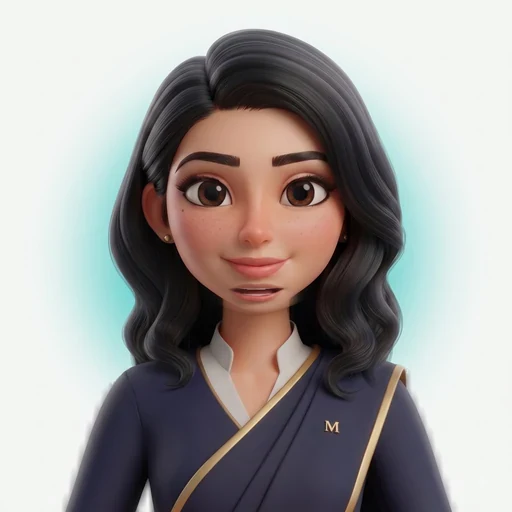
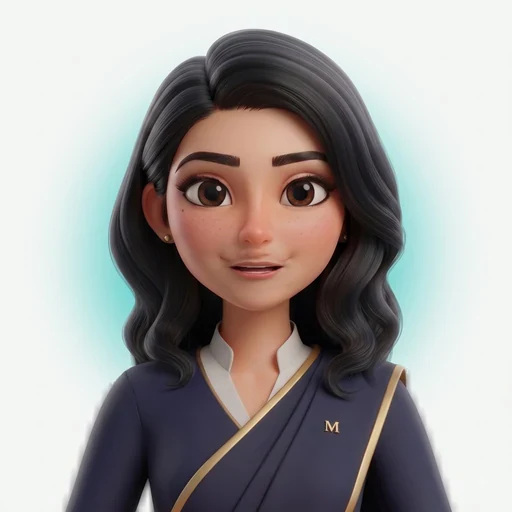
Fix two UI bugs: the panel on short windows, and the viseme anchor
Both are geometry. Claude, ElevenLabs, alignment, viseme timing, the
session and barge-in are untouched.

BUG 2, AND IT WAS IN THE ASSETS, NOT THE CSS. The visemes are whole
512x512 faces, not overlays, so no amount of CSS positioning was ever
going to move the mouth -- both images are absolute, inset 0, and align
exactly. The mouth really was drawn in the wrong place.

The anchor used when they were built was (260, 297), taken from the
centroid of everything that differs between avatar-idle and
avatar-answering. That diff includes the EYES, which differ between
those two renders, and the jaw shading, and it dragged the centroid 30px
down onto her chin. Her lip line is at y=267, measured from the reddest
band of the lower face and confirmed by drawing both lines on the
render: 297 lands on the chin, 267 runs through the lips.

30px at a 512 source is 15px at the 250px the avatar is now drawn at,
which is why enlarging the avatar is what made it visible -- at 44px it
was 2.6px and looked like nothing.

All ten regenerated around (258, 267), and the per-viseme dy nudges are
gone: they existed to drag apertures back onto a lip line that was in
the wrong place. Every viseme's change-centroid is now within 4px of the
lip line, against a 19px spread before. REST is indistinguishable from
the base face -- mean absolute difference 0.60, two pixels above
threshold -- which is the calibration the brief asked for.

BUG 1 was the quick-ask chips, which I had not accounted for. At
[…]

Changed region(s): [[0.4375, 0.4688, 0.5938, 0.625]]

diff --git a/src/index.css b/src/index.css
@@ -4753,3 +4753,85 @@ a.contact__info:hover .contact__infoIcon {
 @media (max-width: 520px) {
   .avatar--hero { max-height: min(32vh, 215px); max-width: min(58vw, 215px); }
 }
+
+/* ================================================================
+   HEIGHT BREAKPOINTS
+
+   The panel was sized on width alone, so on a short laptop window the
+   avatar kept its 250px, the transcript collapsed to nothing, and the
+   controls and input were pushed past the bottom edge. Height is the
+   axis that was actually constrained.
+
+   The order things give way in is deliberate: the disclaimer goes
+   first, then the greeting, then padding, then the avatar. Mute, End
+   and the input never move — a voice control you cannot reach is worse
+   than a small face.
+   ================================================================ */
+
+/* The frame is the scroll boundary: it must be allowed to shrink so the
+   transcript inside it is what overflows, not the panel. */
+.kiosk--compact .kiosk__frame { min-height: 0; }
+.kiosk--compact .kiosk__log { overflow-y: auto; }
+
+/* Controls and input are pinned by never being allowed to shrink. */
+.kiosk__controls,
+.kiosk--compact .kiosk__bar,
+.kiosk--compact .kiosk__head,
+.kiosk--compact .kiosk__stage { flex-shrink: 0; }
+
+/* The quick-ask chips are the largest optional block in the panel: 144px
+   of wrapped buttons. They are a convenience for typing, and they were
+   what pushed the input past the bottom edge on short windows — the
+   measured overflow at 1024x600 was 17px, and the chips were 144 of it. */
+
+/* ---- compact: 761-849px tall ---- */
+@media (max-height: 849px) {
+  .avatar--hero { max-height: min(30vh, 210px); max-width: min(74vw, 210px); }
+  .kiosk__stage { padding: 0.75rem 1rem 0.6rem; gap: 0.5rem; }
+  .kiosk--compact .kiosk__head { padding-top: 0.7rem; padding-bottom: 0.7rem; }
+  .kiosk__greeting { padding: 0.1rem 1.15rem 0.45rem; font-size: 0.8rem; }
+  .kiosk__fine { font-size: 0.66rem; padding-top: 0.35rem; padding-bottom: 0.35rem; }
+  /* One row that scrolls sideways instead of four that wrap. */
+  .kiosk--compact .kiosk__chips {
+    flex-wrap: nowrap;
+    overflow-x: auto;
+    scrollbar-width: none;
+    padding-bottom: 0.4rem;
+  }
+  .kiosk--compact .kiosk__chips::-webkit-scrollbar { display: none; }
+  .kiosk--compact .kiosk__chips button { flex-shrink: 0; }
+}
+
+/* ---- short: 621-760px. 760 rather than 700 because a 720px window
+        overflowed by 7px with the greeting and disclaimer still in. ---- */
+@media (max-height: 760px) {
+  .avatar--hero { max-height: min(26vh, 175px); max-width: min(60vw, 175px); }
+  .kiosk__stage { padding: 0.55rem 1rem 0.45rem; gap: 0.35rem; }
+  .kiosk__status { font-size: 0.8rem; }
+  /* In priority order, these are what a visitor can lose without
+     losing the assistant. Controls and input never move. */
+  .kiosk__greeting { display: none; }
+  .kiosk__fine { display: none; }
+  .kiosk--compact .kiosk__chips { display: none; }
+  .kiosk--compact .kiosk__log { padding-top: 0.4rem; padding-bottom: 0.4rem; }
+}
+
+/* ---- very short: a netbook, or a laptop with devtools open ---- */
+@media (max-height: 620px) {
+  .avatar--hero { max-height: min(24vh, 140px); max-width: min(50vw, 140px); }
+  .kiosk__stage { padding: 0.4rem 1rem 0.35rem; }
+  .kiosk--compact .kiosk__head { padding-top: 0.5rem; padding-bottom: 0.5rem; }
+}
+
+/* One scrolling row at every size, not only on short windows. Wrapped,
+   the chips are 144px of the panel; in a row they are about 44. That
+   difference is what was still clipping the disclaimer off the bottom
+   at 1440x900, where content summed to 766 in a 720 frame. */
+.kiosk--compact .kiosk__chips {
+  flex-wrap: nowrap;
+  overflow-x: auto;
+  scrollbar-width: none;
+  padding-bottom: 0.4rem;
+}
+.kiosk--compact .kiosk__chips::-webkit-scrollbar { display: none; }
+.kiosk--compact .kiosk__chips button { flex-shrink: 0; }
